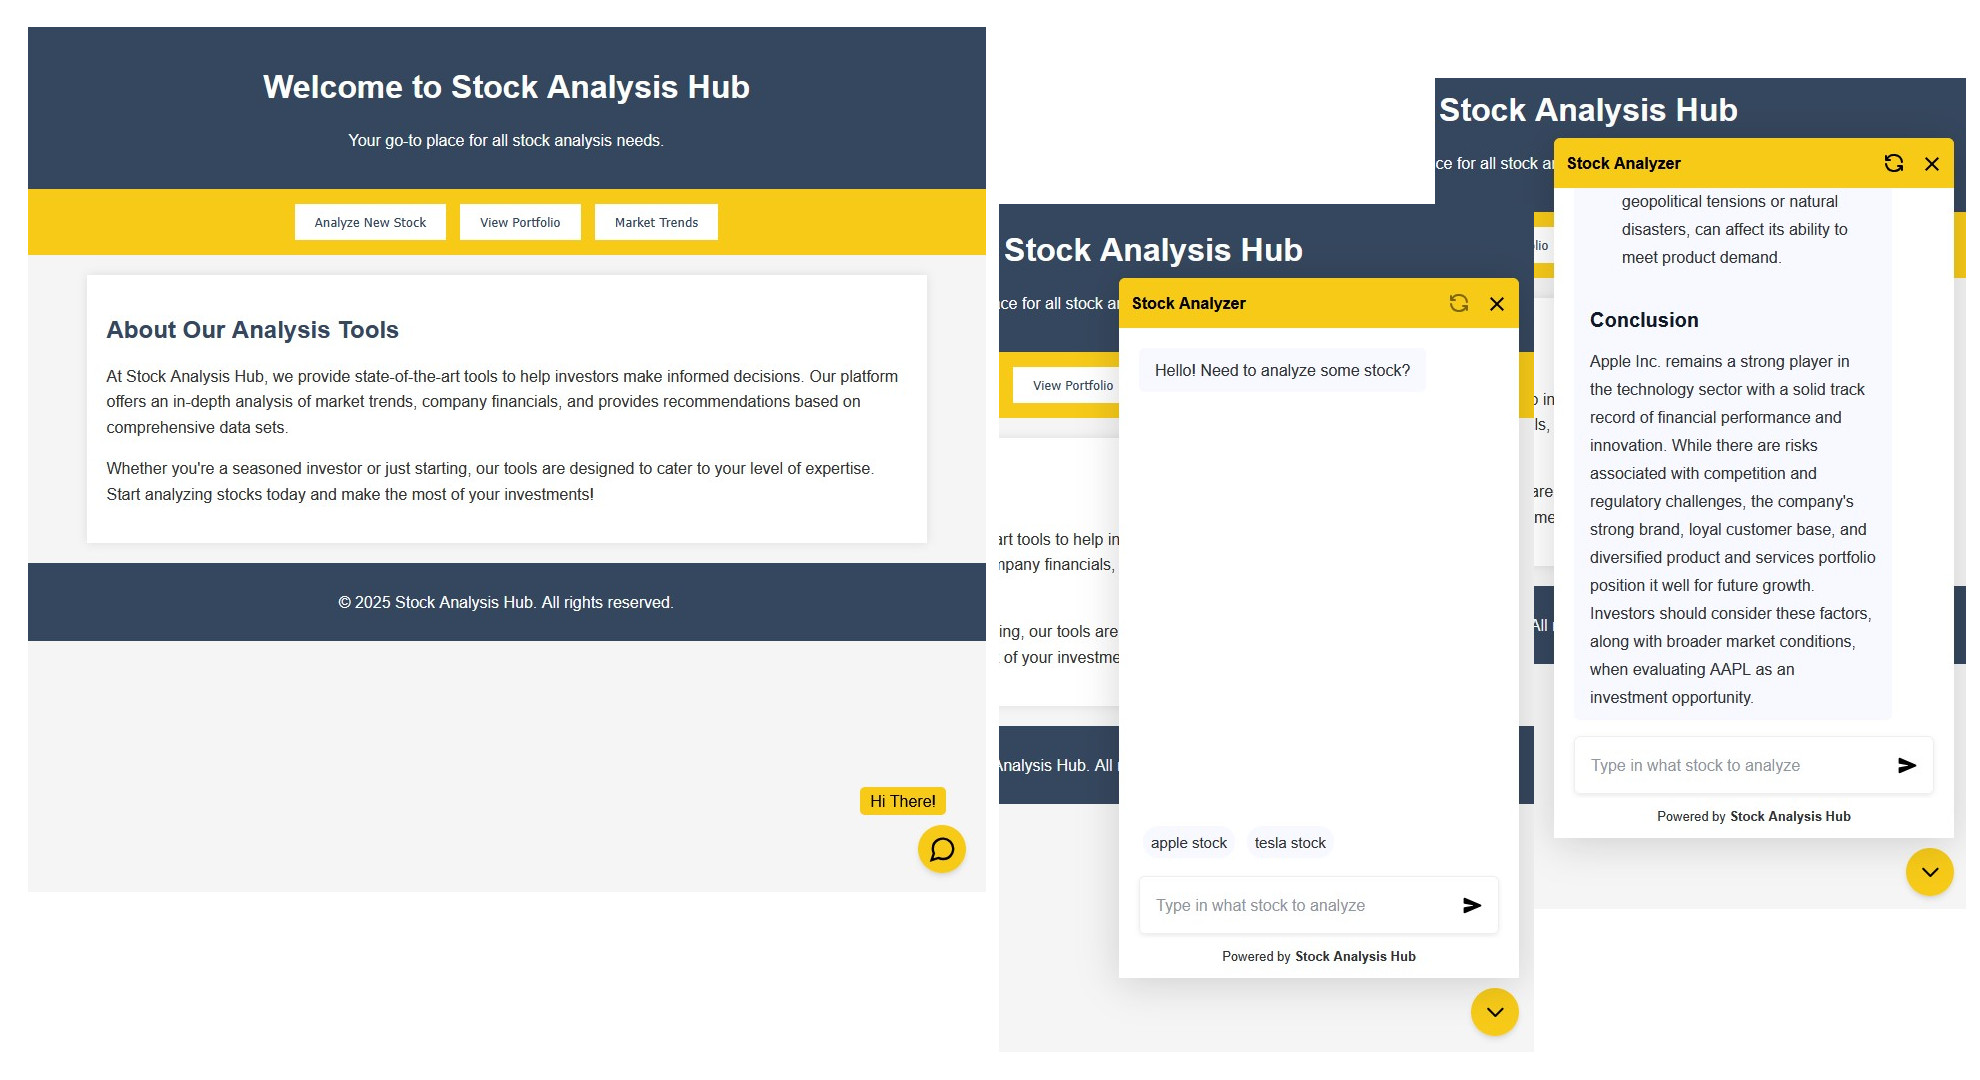
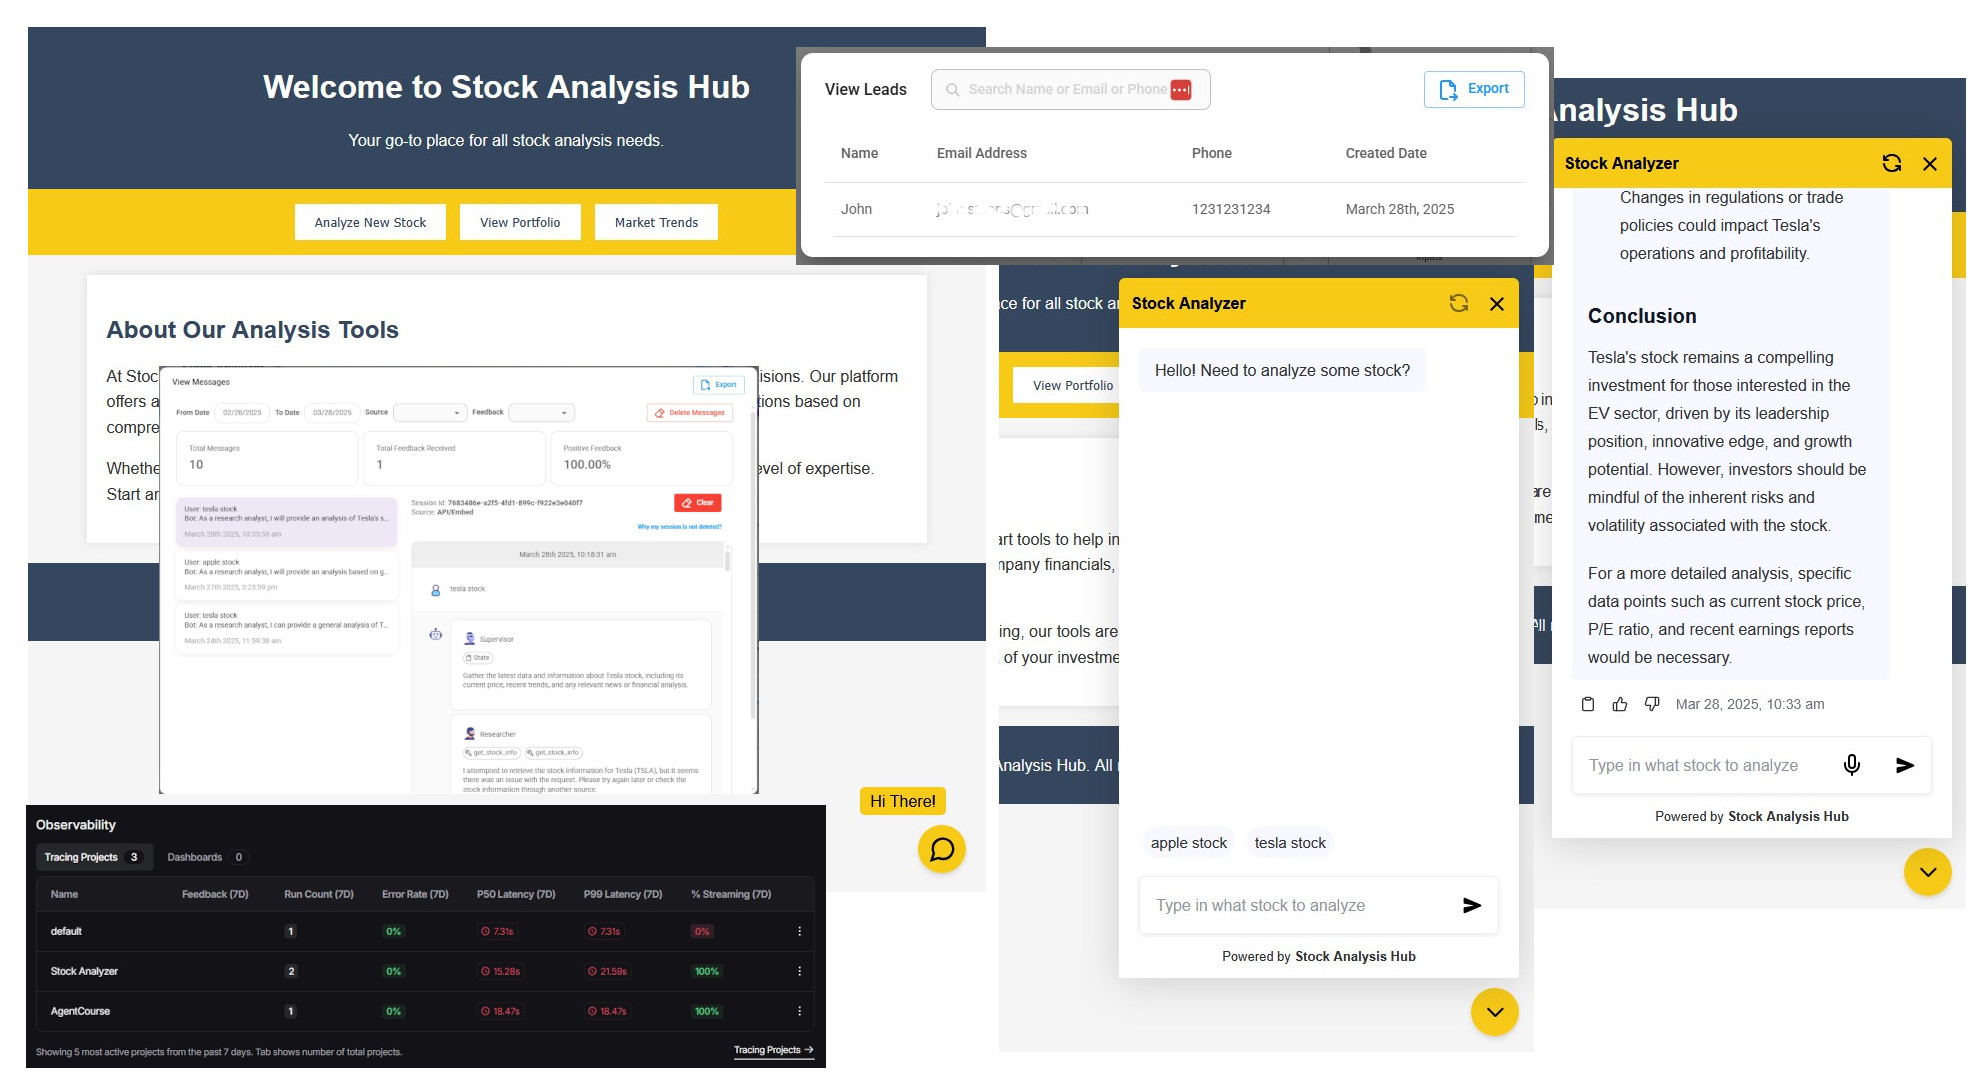
Add additional screenshots to Stock Analyzer AI Agent project

diff --git a/src/components/Projects.tsx b/src/components/Projects.tsx
@@ -181,6 +181,21 @@ export default function Projects() {
                     />
                   )}
                 </Item>
+                <Item
+                  caption='AI Agent Usage and Cost Tracking'
+                  original='img/AI-Agent-Usage-Cost-Tracking.jpg'
+                  thumbnail='img/AI-Agent-Usage-Cost-Tracking.jpg'
+                  width='971'
+                  height='787'
+                >
+                  {({ ref, open }) => (
+                    <img
+                      ref={ref}
+                      onClick={open}
+                      src='img/AI-Agent-Usage-Cost-Tracking.jpg'
+                    />
+                  )}
+                </Item>
               </Gallery>
               <div className='card-body'>
                 <h5 className='card-title'>AI Agents</h5>
@@ -218,7 +233,8 @@ export default function Projects() {
                 <p>
                   Analyzes stock data using a custom tool with JavaScript code
                   to call an API and producers a report on stock price movements
-                  embedded as a chatbot in a webpage.
+                  embedded as a chatbot with speech-to-text, user feedback &
+                  lead generation capabilities embedded in a webpage.
                 </p>
               </div>
             </div>
